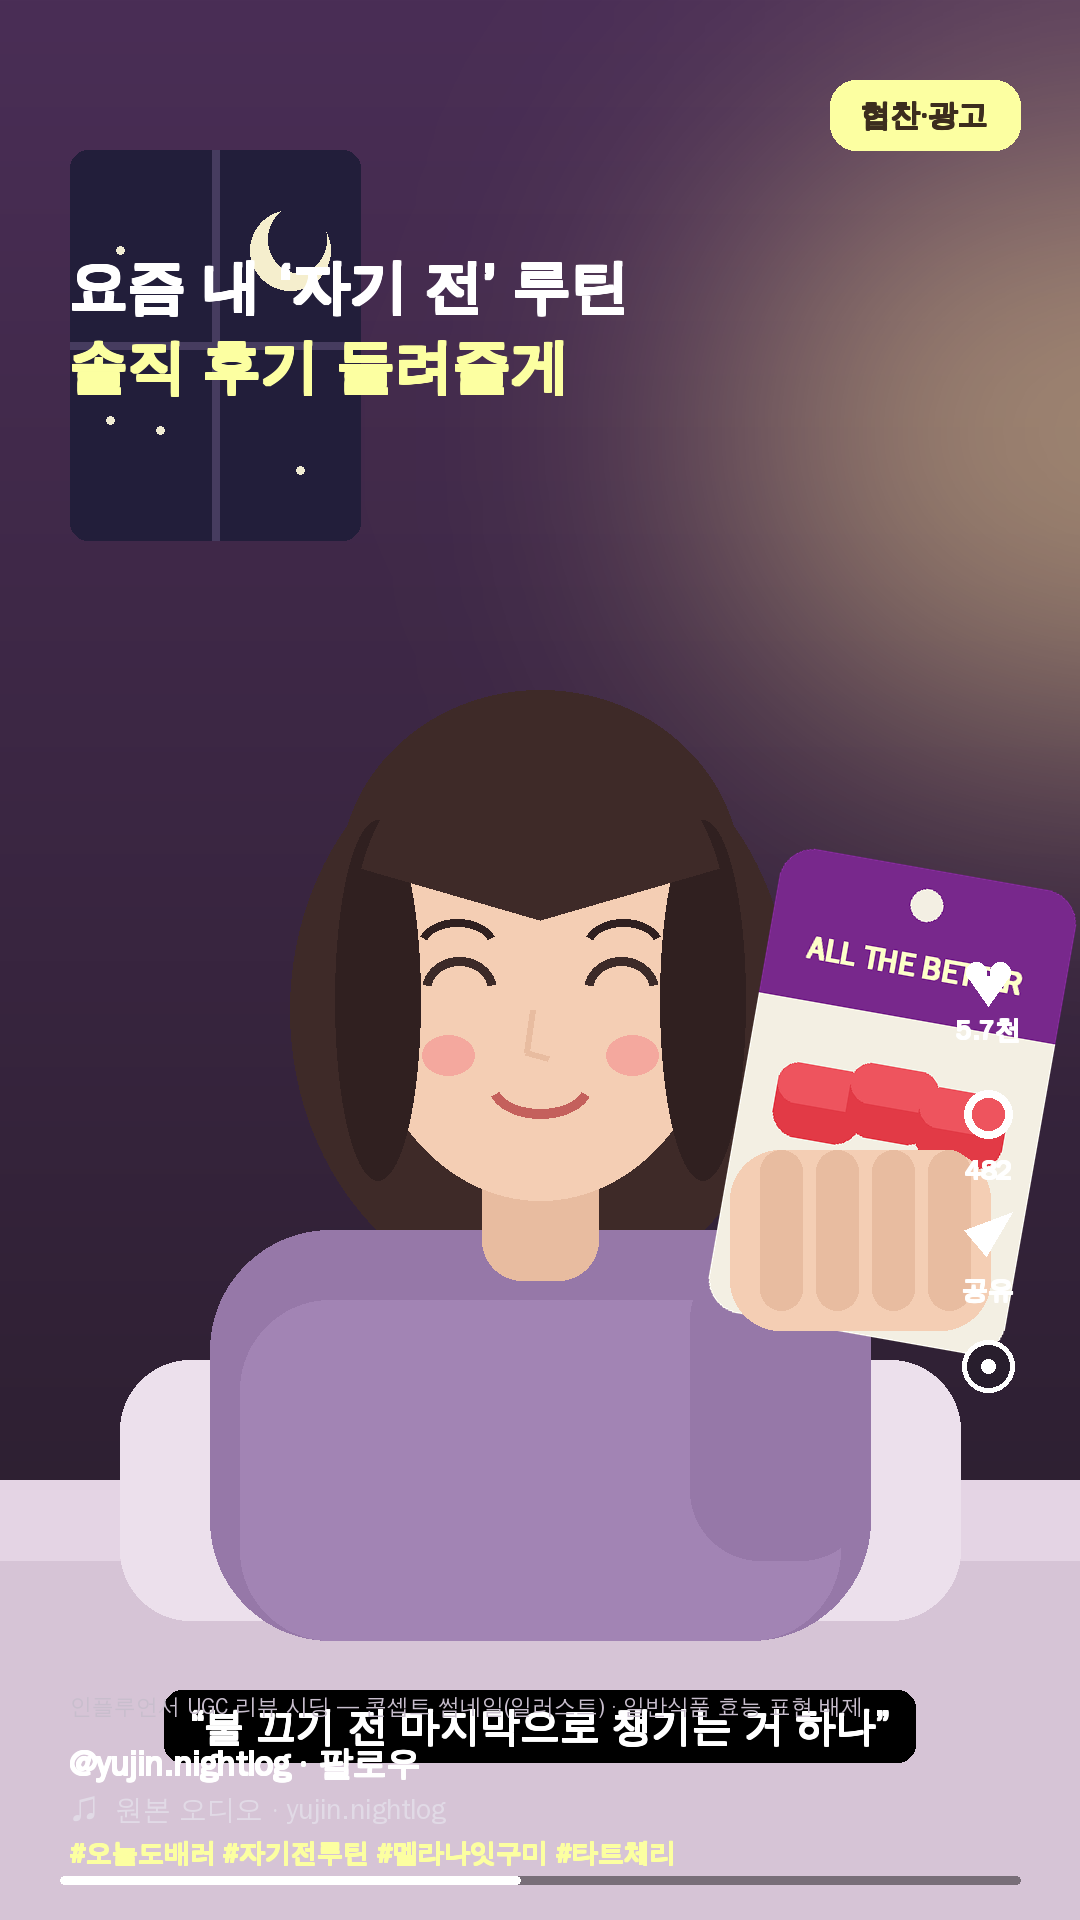
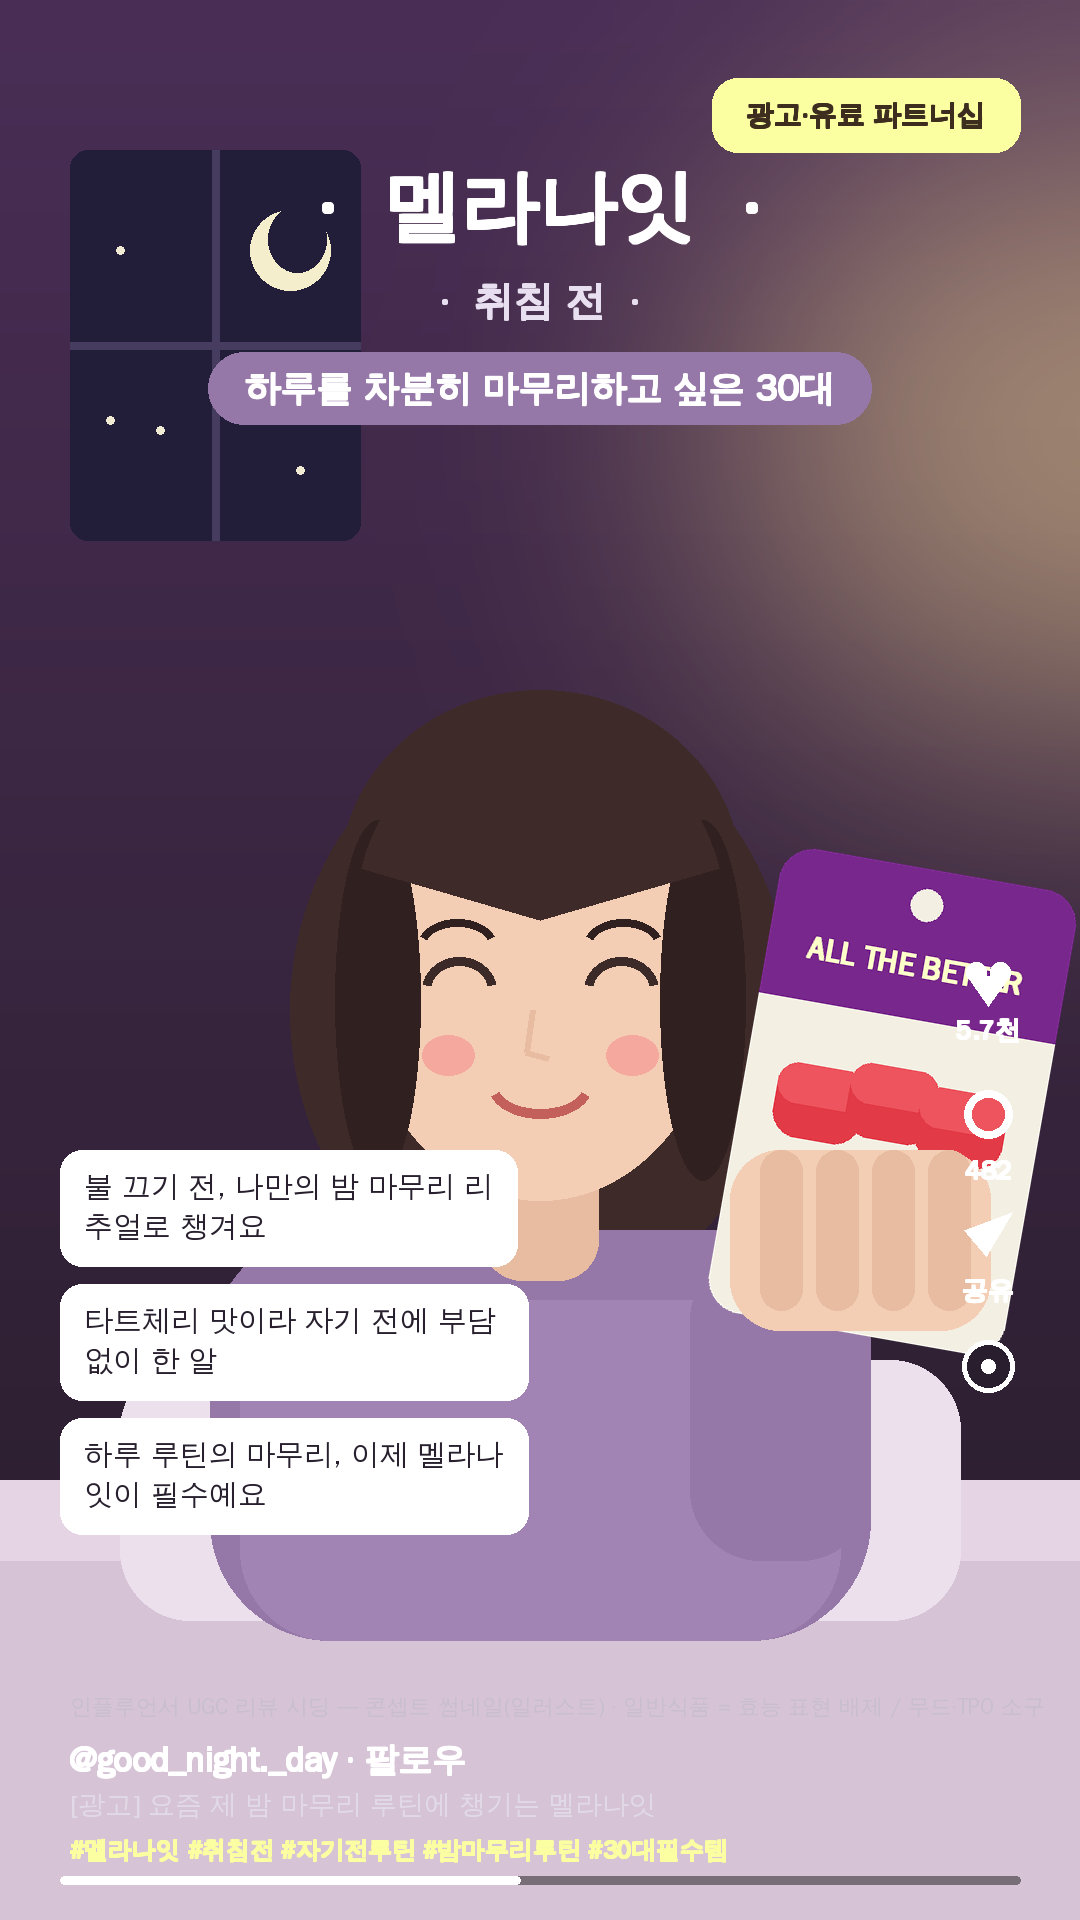
멜라나잇 UGC 시딩 썸네일 v2: 레퍼런스 레이아웃(상단 타이틀·취침전 TPO·타겟 칩 '하루를 차분히 마무리하고 싶은 30대'·좌측 말풍선 자막) + 심의 안전 카피(수면 효능 배제) + '광고·유료 파트너십' 표시 반영.
Claude-Session: https://claude.ai/code/session_013QuusgmNBn5gzL3J2qxpFj

diff --git a/build_seeding_thumb_ugc.py b/build_seeding_thumb_ugc.py
@@ -92,21 +92,37 @@ dd.rounded_rectangle([hx,ppy+pph-150,hx+260,ppy+pph+30],50,fill=SK)
 for k in range(4):
     dd.rounded_rectangle([hx+30+k*56,ppy+pph-150,hx+72+k*56,ppy+pph+10],22,fill=SK2)
 
-# ================= overlay text (casual UGC) =================
-# top hook handwriting-ish
-T(dd,(70,250),"요즘 내 ‘자기 전’ 루틴",fnt(58),(255,255,255),bold=2)
-T(dd,(70,330),"솔직 후기 들려줄게",fnt(58),(252,255,161),bold=2)
-# subtitle (reel style) lower-center
-sub="“불 끄기 전 마지막으로 챙기는 거 하나”"
-f2=fnt(40)
-tw=dd.textlength(sub,font=f2)
-dd.rounded_rectangle([(W-tw)//2-26,1690,(W+tw)//2+26,1762],18,fill=(0,0,0))
-T(dd,(W//2,1726),sub,f2,(255,255,255),anchor="mm",bold=1)
+# ================= overlay text (compliant) =================
+# top-center title + TPO
+T(dd,(W//2,206),"·  멜라나잇  ·",fnt(78),(255,255,255),anchor="mm",bold=2)
+T(dd,(W//2,300),"·  취침 전  ·",fnt(40),(232,224,240),anchor="mm",bold=1)
+chip="하루를 차분히 마무리하고 싶은 30대"
+cf=fnt(36); cw=dd.textlength(chip,font=cf)
+dd.rounded_rectangle([(W-cw)//2-36,352,(W+cw)//2+36,424],36,fill=(150,120,168))
+T(dd,(W//2,388),chip,cf,(255,255,255),anchor="mm",bold=1)
+# left speech bubbles (compliant captions — no efficacy)
+def bubble(x,y,text,maxw=430):
+    f=fnt(29); lines=[]; ln=""
+    for ch in text:
+        if dd.textlength(ln+ch,font=f)>maxw and ln: lines.append(ln); ln=ch
+        else: ln+=ch
+    if ln: lines.append(ln)
+    bw=max(dd.textlength(l,font=f) for l in lines)+48; bh=20+len(lines)*40+16
+    dd.rounded_rectangle([x,y,x+bw,y+bh],22,fill=(255,255,255))
+    cy=y+18
+    for l in lines:
+        T(dd,(x+24,cy),l,f,(40,32,46)); cy+=40
+    return y+bh+18
+by=1150
+for c in ["불 끄기 전, 나만의 밤 마무리 리추얼로 챙겨요",
+          "타트체리 맛이라 자기 전에 부담 없이 한 알",
+          "하루 루틴의 마무리, 이제 멜라나잇이 필수예요"]:
+    by=bubble(60,by,c)
 
 # ================= reel UI =================
 # 광고 badge
-dd.rounded_rectangle([W-250,80,W-60,150],26,fill=(252,255,161))
-T(dd,(W-155,115),"협찬·광고",fnt(30),(60,45,30),anchor="mm",bold=1)
+dd.rounded_rectangle([W-368,78,W-60,152],26,fill=(252,255,161))
+T(dd,(W-214,115),"광고·유료 파트너십",fnt(28),(60,45,30),anchor="mm",bold=1)
 # right action icons
 ix=W-92
 def heart(x,y):
@@ -118,12 +134,12 @@ dd.polygon([(ix-24,1230),(ix+24,1212),(ix-2,1256)],outline=(255,255,255),width=2
 # music disc
 dd.ellipse([ix-26,1340,ix+26,1392],fill=(40,30,45),outline=(255,255,255),width=5); dd.ellipse([ix-7,1359,ix+7,1373],fill=(255,255,255))
 # bottom: handle + audio + progress
-T(dd,(70,H-178),"@yujin.nightlog · 팔로우",fnt(34),(255,255,255),bold=1)
-T(dd,(70,H-128),"♫  원본 오디오 · yujin.nightlog",fnt(28),(225,218,230))
-T(dd,(70,H-84),"#오늘도배러 #자기전루틴 #멜라나잇구미 #타트체리",fnt(26),(252,255,161),bold=1)
+T(dd,(70,H-182),"@good_night._day · 팔로우",fnt(34),(255,255,255),bold=1)
+T(dd,(70,H-132),"[광고] 요즘 제 밤 마무리 루틴에 챙기는 멜라나잇",fnt(27),(225,218,230))
+T(dd,(70,H-86),"#멜라나잇 #취침전 #자기전루틴 #밤마무리루틴 #30대필수템",fnt(24),(252,255,161),bold=1)
 dd.rounded_rectangle([60,H-44,W-60,H-36],4,fill=(120,110,120))
 dd.rounded_rectangle([60,H-44,520,H-36],4,fill=(255,255,255))
 # corner note
-T(dd,(70,H-228),"인플루언서 UGC 리뷰 시딩 — 콘셉트 썸네일(일러스트) · 일반식품 효능 표현 배제",fnt(22),(200,190,205))
+T(dd,(70,H-228),"인플루언서 UGC 리뷰 시딩 — 콘셉트 썸네일(일러스트) · 일반식품 = 효능 표현 배제 / 무드·TPO 소구",fnt(22),(200,190,205))
 
-img.save("/tmp/melanight_ugc.png"); print("saved",img.size)
+img.save("/tmp/melanight_ugc2.png"); print("saved",img.size)
